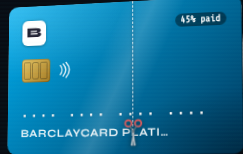
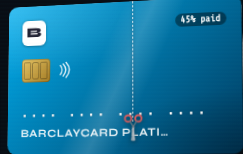
Debt tiles: numbered payoff order (1 = highest rate in Avalanche, smallest balance in Snowball); cleared debts last
Claude-Session: https://claude.ai/code/session_01BbEpszbFs3K1a6WMvdXZsu

Changed region(s): [[0.4897, 0.7273, 0.6049, 0.8571], [0.5185, 0.1558, 0.5473, 0.5455], [0.5185, 0.8831, 0.5761, 0.961]]

diff --git a/index.html b/index.html
@@ -765,6 +765,11 @@ body::before {
 .cc3-bk-cut{position:absolute;top:0;right:0;bottom:0;background:rgba(150,150,150,.55);mix-blend-mode:saturation;border-left:.4cqw dashed rgba(255,255,255,.5);pointer-events:none}
 .cc3-pct{z-index:5}
 .cc3-gloss{z-index:2}
+
+.debt-rank{flex:none;display:inline-flex;align-items:center;justify-content:center;min-width:1.5em;height:1.5em;padding:0 .3em;border-radius:50%;background:linear-gradient(135deg,#e8c56a,#b88a2a);color:#1a1405;font:800 .62rem 'Share Tech Mono',monospace;box-shadow:0 0 0 1px rgba(0,0,0,.3)}
+.debt-rank.done{background:rgba(62,207,142,.25);color:#3ecf8e}
+.debt-rank.sm{font-size:.5rem;vertical-align:middle}
+.debt-rank-note{font-size:.5rem;color:var(--t3);margin:0 0 10px;font-family:'Share Tech Mono',monospace}
 .cc-tile-actions{display:flex;gap:4px}
 .debt-card-grid.has-cards{grid-template-columns:repeat(auto-fill,minmax(min(100%,230px),1fr))}
 
@@ -12437,6 +12442,7 @@ function undoPayment(id){
 }
 function renderDebtTab(){
   var sorted=[].concat(debtState.debts).sort(function(a,b){
+    if((a.balance>0)!==(b.balance>0))return a.balance>0?-1:1;   // cleared debts go last
     return _debtMethod==='avalanche' ? (+b.rate||0)-(+a.rate||0) : (+a.balance||0)-(+b.balance||0);
   });
   var total=sorted.reduce(function(s,d){return s+d.balance;},0);
@@ -12457,7 +12463,10 @@ function renderDebtTab(){
   var _obBanner=sorted.some(function(d){return d._onboarding;})
     ?'<div style="display:flex;align-items:center;gap:10px;flex-wrap:wrap;padding:10px 12px;margin-bottom:12px;background:rgba(224,137,74,.08);border:1px solid rgba(224,137,74,.3);border-radius:8px;font-size:.55rem;color:var(--t2);line-height:1.5"><span style="flex:1;min-width:200px"><b style="color:var(--or)">One lump-sum entered at setup.</b> Replace it with each separate debt (type, interest rate, minimum payment) so your payoff plan is accurate.</span><button class="btn-add-data" style="padding:5px 12px;font-size:.52rem" onclick="removeOnboardingDebt()">Replace it →</button></div>'
     :'';
-  dl.innerHTML=_obBanner+'<div class="debt-card-grid'+(sorted.some(function(d){return d.type==='credit'||d.type==='bnpl';})?' has-cards':'')+'">'
+  var _rank={},_rk=0;sorted.forEach(function(d){if(d.balance>0)_rank[d.id]=++_rk;});   // payoff order: Avalanche = highest rate first, Snowball = smallest balance first
+  var _rankBadge=function(d){return _rank[d.id]?'<span class="debt-rank" title="Payoff order #'+_rank[d.id]+' ('+(_debtMethod==='avalanche'?'Avalanche: highest interest rate first':'Snowball: smallest balance first')+')">'+_rank[d.id]+'</span>':'<span class="debt-rank done" title="Paid off">✓</span>';};
+  var _rankNote='<div class="debt-rank-note"><b>Payoff order</b> — <span class="debt-rank sm">1</span> = '+(_debtMethod==='avalanche'?'highest interest rate (Avalanche): clear this first':'smallest balance (Snowball): clear this first')+'</div>';
+  dl.innerHTML=_obBanner+_rankNote+'<div class="debt-card-grid'+(sorted.some(function(d){return d.type==='credit'||d.type==='bnpl';})?' has-cards':'')+'">'
     +sorted.map(function(d){
       var orig=d.original||d.total||d.balance;
       var paidPct=orig>0?Math.max(0,Math.min(1,(orig-d.balance)/orig)):0;
@@ -12469,7 +12478,7 @@ function renderDebtTab(){
       if(isCard){
         // real-proportion 3D card (drag to rotate, double-tap to flip); progress shown on the card's bottom edge
         return '<div style="background:var(--c2);border:1px solid var(--bd);border-radius:10px;padding:10px;display:flex;flex-direction:column;gap:8px">'
-          +'<div style="font-size:.55rem;font-weight:700;color:var(--t1);font-family:\'Syne\',sans-serif;white-space:nowrap;overflow:hidden;text-overflow:ellipsis">'+ccEsc(d.name)+'</div>'
+          +'<div style="font-size:.55rem;font-weight:700;color:var(--t1);font-family:\'Syne\',sans-serif;white-space:nowrap;overflow:hidden;text-overflow:ellipsis;display:flex;align-items:center;gap:6px">'+_rankBadge(d)+'<span style="overflow:hidden;text-overflow:ellipsis">'+ccEsc(d.name)+'</span></div>'
           +cc3dHTML(d,pctNum,ccReduced()?pctNum:(_ccPct[d.id]!=null?_ccPct[d.id]:0))
           +'<div style="font-size:.52rem;color:var(--re);font-family:\'Share Tech Mono\',monospace;font-weight:700;display:flex;justify-content:space-between"><span>'+gbpFmt(d.balance)+'</span><span style="color:var(--gr);font-weight:400">'+pctNum+'% paid</span></div>'
           +'<div style="display:flex;align-items:center;gap:4px">'
@@ -12485,7 +12494,7 @@ function renderDebtTab(){
       } else {
         // Loan / other — vertical progress bar (y-axis = monetary value, bar shrinks from top as paid)
         return '<div style="background:var(--c2);border:1px solid var(--bd);border-radius:10px;padding:10px;display:flex;flex-direction:column;gap:6px">'
-          +'<div style="font-size:.55rem;font-weight:700;color:var(--t1);font-family:\'Syne\',sans-serif;white-space:nowrap;overflow:hidden;text-overflow:ellipsis">'+d.name+'</div>'
+          +'<div style="font-size:.55rem;font-weight:700;color:var(--t1);font-family:\'Syne\',sans-serif;white-space:nowrap;overflow:hidden;text-overflow:ellipsis;display:flex;align-items:center;gap:6px">'+_rankBadge(d)+'<span style="overflow:hidden;text-overflow:ellipsis">'+ccEsc(d.name)+'</span></div>'
           +'<div style="flex:1;background:rgba(255,255,255,.04);border-radius:5px;overflow:hidden;position:relative;min-height:100px">'
           +'<div style="position:absolute;bottom:0;left:0;right:0;height:'+pctNum+'%;background:linear-gradient(to top,rgba(62,207,142,.35),rgba(62,207,142,.15));border-radius:5px;transition:height .5s ease"></div>'
           +'<div style="position:absolute;top:0;left:0;right:0;height:'+(100-pctNum)+'%;background:linear-gradient(to bottom,rgba(224,92,92,.25),rgba(224,92,92,.12));border-radius:5px"></div>'

diff --git a/tests/test_rank.js b/tests/test_rank.js
@@ -1,0 +1,22 @@
+const { chromium } = require('playwright');
+let fails=0; const ok=(c,m)=>{ if(!c){fails++;console.log('FAIL:',m);} else console.log('ok  :',m); };
+(async()=>{
+  const b=await chromium.launch(); const page=await (await b.newContext({viewport:{width:900,height:1000}})).newPage(); const errs=[]; page.on('pageerror',e=>errs.push(e.message));
+  await page.addInitScript(()=>{if(localStorage.getItem('pos_debt1'))return;localStorage.setItem('vi_declined_demo','true');localStorage.setItem('vi_session',JSON.stringify({email:'t@t.com',expiry:Date.now()+1e10}));localStorage.setItem('vi_user',JSON.stringify({name:'T',email:'t@t.com'}));
+    localStorage.setItem('pos_debt1',JSON.stringify({debts:[{id:1,name:'Low rate big',original:3000,balance:3000,rate:5,min:40,type:'credit'},{id:2,name:'High rate small',original:300,balance:300,rate:29,min:20,type:'credit'},{id:3,name:'Mid',original:1000,balance:1000,rate:18,min:25,type:'credit'},{id:4,name:'Loan',original:8000,balance:8000,rate:7,min:200,type:'car'},{id:5,name:'Cleared',original:100,balance:0,rate:20,min:5,type:'credit'}]}));});
+  await page.goto('file:///home/user/Vault-It/index.html'); await page.waitForTimeout(1500);
+  await page.addStyleTag({content:'#welcome-overlay,#login-overlay{display:none!important}'});
+  await page.evaluate(()=>showTab('debt')); await page.waitForTimeout(700);
+  const order=()=>page.evaluate(()=>[...document.querySelectorAll('.debt-card-grid > div')].map(t=>{const r=t.querySelector('.debt-rank');return r.textContent.trim()+':'+t.querySelector('span[style*="ellipsis"]').textContent;}));
+  let o=await order(); console.log('avalanche',o.join(' | '));
+  ok(o[0]==='1:High rate small'&&o[1]==='2:Mid'&&o[2]==='3:Loan'&&o[3]==='4:Low rate big','avalanche: 1 = highest interest rate');
+  ok(o[4]==='✓:Cleared','paid-off debt shows a tick instead of a number');
+  await page.evaluate(()=>setDebtMethod('snowball')); await page.waitForTimeout(500);
+  o=await order(); console.log('snowball',o.join(' | '));
+  ok(o[0]==='✓:Cleared'||o[0].startsWith('1:High rate small'),'snowball ordering recomputed');
+  const ranks=o.filter(x=>/^\d/.test(x)).map(x=>x.split(':')[1]);
+  ok(ranks.join('|')==='High rate small|Mid|Low rate big|Loan'.split('|').join('|')||ranks[0]==='High rate small','snowball: 1 = smallest balance ('+ranks.join(', ')+')');
+  ok(/smallest balance/.test(await page.locator('.debt-rank-note').innerText()),'note explains the current method');
+  ok(errs.length===0,'no page errors '+errs.join('|'));
+  await b.close(); console.log(fails?'FAILURES '+fails:'ALL PASSED');
+})();
